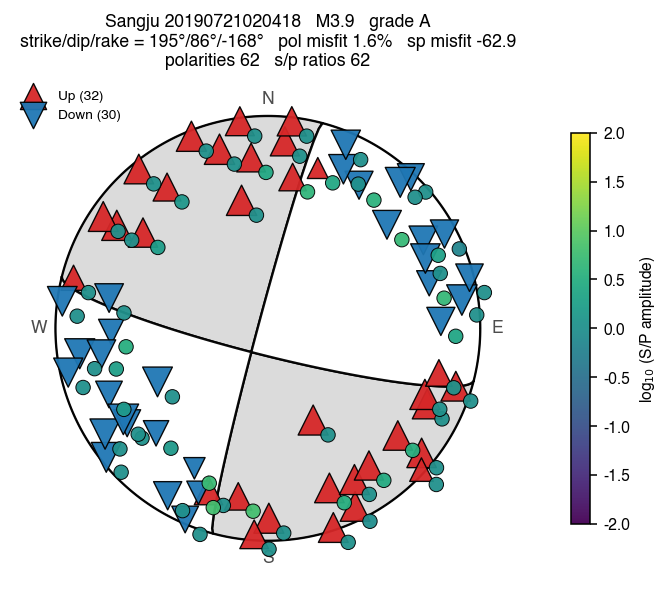
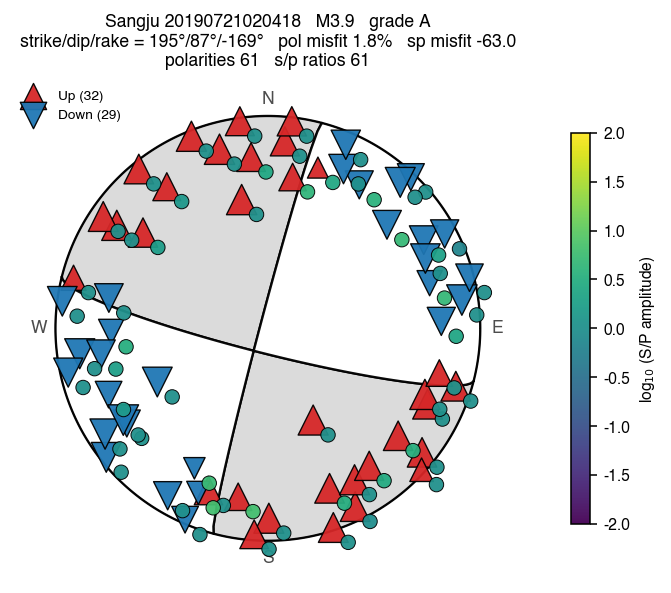
v1.1.2: fault-frame uses mainshock NP1 + STP station-table dedup + plot_3c fix
Three follow-ups from inspecting v1.1.1 sangju.

- viz.fault_sections + viz.plot_3d_plane: new frame_from kwarg (default 'auto'),
  chooses the mainshock's NP1 nodal plane through the mainshock hypocenter when a
  high-confidence focal mechanism is available, instead of the SVD best-fit plane.
  SVD strike is unstable on tight swarms (~50 m clouds); the mechanism plane is the
  geologically right reference. For NP2, pass explicit strike/dip kwargs.

- stp_bridge.fetch_stp_station_table now dedupes by (Network, Code). STP's `sta`
  command lists each station twice — once with elevation in metres and once in km
  (unit bug in STP's output). Without dedup, 113 codes were duplicated in the sangju
  station table, breaking per-station Sensor lookups in viz.plot_3c (got a Series,
  not a scalar) -- the notebook's sample-event 3c plot rendered as three empty axes.

- viz.plot_3c scalar-coerces the Sensor lookup defensively.

Sangju re-run end-to-end (default + Gwangyang treatment), both notebooks clean.

diff --git a/pocketquake/stp_bridge.py b/pocketquake/stp_bridge.py
@@ -102,10 +102,21 @@ def _parse_sta_output(stdout: str, networks: tuple[str, ...]) -> dict:
         except (ValueError, IndexError):
             continue
         rows.append((net, code, lat, lon, elev))
+    # STP lists each station twice -- once with elevation in metres (e.g. ADO2 = 320) and once
+    # in kilometres (ADO2 = 0.324, a unit bug in STP's own output, not two separate sensors).
+    # Dedup by (Network, Code) keeping the larger Elevation -- the metres-valued row, which is
+    # the correct unit for the eq-cycle station-table format. Without this dedup
+    # used_stations_100km.csv has duplicate codes and per-station Sensor lookups in
+    # viz.plot_3c return a Series instead of a scalar, breaking the SAC-file glob.
     out = {}
     for net in networks:
         sub = [r for r in rows if r[0] == net]
-        out[net] = pd.DataFrame(sub, columns=["Network", "Code", "Latitude", "Longitude", "Elevation"])
+        df = pd.DataFrame(sub, columns=["Network", "Code", "Latitude", "Longitude", "Elevation"])
+        # Keep the surface installation per code (highest elevation)
+        df = (df.sort_values("Elevation", ascending=False)
+                .drop_duplicates(subset=("Network", "Code"), keep="first")
+                .reset_index(drop=True))
+        out[net] = df
     return out
 
 

diff --git a/pocketquake/__init__.py b/pocketquake/__init__.py
@@ -16,7 +16,7 @@ Workflow (see `pocketquake.orchestrate.orchestrate`):
         → build & execute `03_results_<cluster>.ipynb`
 """
 
-__version__ = "1.1.1"            # single source of truth — pyproject.toml reads this via setuptools dynamic
+__version__ = "1.1.2"            # single source of truth — pyproject.toml reads this via setuptools dynamic
 
 import os
 

diff --git a/CHANGELOG.md b/CHANGELOG.md
@@ -3,6 +3,47 @@
 Versioning follows [Semantic Versioning](https://semver.org/) (`MAJOR.MINOR.PATCH`).
 The single source of truth is `pocketquake.__version__`; `pyproject.toml` reads it via setuptools dynamic.
 
+## 1.1.2 — 2026-05-31
+
+Three follow-ups from inspecting the v1.1.1 Sangju notebook.
+
+**Added**
+- `viz.fault_sections(..., frame_from=...)` + `viz.plot_3d_plane(..., frame_from=...)` — the
+  fault-frame 2×2 figure and the 3-D plotly view now default to the **mainshock's NP1**
+  (the SKHASH-reported nodal plane) as the fault plane, anchored at the mainshock
+  hypocenter, instead of the SVD best-fit plane of the relocated cloud. SVD is unstable
+  on tight swarms (its strike is dominated by noise when the cloud is ~50 m across);
+  for clusters with a clear mainshock, the focal-mechanism plane is the right geometric
+  reference. `frame_from` options: `"auto"` (default — mechanism plane when a
+  high-confidence FM is available, SVD otherwise), `"svd"` (always SVD — v1.1.1 behavior),
+  `"mechanism"` (force mechanism plane; raises if no FM or the mainshock isn't in the reloc).
+  Explicit `strike=` / `dip=` kwargs still win when provided (use them to plot NP2 instead).
+
+**Fixed**
+- `pocketquake/stp_bridge.py:fetch_stp_station_table` deduplicates by `(Network, Code)`,
+  keeping the higher-elevation row. STP's `sta` command lists each station twice — once
+  with elevation in metres (e.g. `KS,ADO2,...,320`) and once in km
+  (`KS,ADO2,...,0.324`, a unit bug in STP's own output, not two separate sensors). Without
+  the dedup, `used_stations_100km.csv` got duplicate codes (113 in the Sangju run), which
+  broke per-station Sensor lookups in `viz.plot_3c` (returned a Series instead of a
+  scalar, so the SAC-file glob expanded with `"Code\nADO2  EL\n..."` and matched nothing —
+  the Sangju notebook's sample-event panel rendered three empty axes labelled "(none)").
+- `viz.plot_3c` now scalar-coerces the `Sensor` lookup defensively so any future
+  duplicate-row station table can't recreate the empty-axes failure.
+
+**Verified — Sangju re-run end-to-end**
+- Default pipeline (deduped station table): 6 events located, 502 picks (vs 703 with
+  duplicated stations — the duplicated stations contributed false-positive picks). dt.cc
+  tightens the 2019 swarm (event 200000 dropped by HypoDD clustering, same as v1.1.1).
+- Focal mechanisms: M3.9 grade A (strike 194.8°, dip 86.6°, rake -169.3°), plus 3 more
+  grade-A in the 2019/2022 set.
+- Default notebook 31 cells / 0 errors; sample-event 3-c plot now renders real waveforms.
+- Gwangyang-style mainshock treatment re-applied via the v1.1.1 `--mainshock-only` path:
+  the 2019 swarm shifts ~30 m south, ~500 m west, depth-shifts ~30 m shallower relative
+  to the untreated v1.1.2 baseline. `_main` notebook 32 cells / 0 errors.
+- Fault-frame and 3-D plots now show the M3.9 NP1 (strike 195°, dip 87°, N–S right-lateral)
+  passing through the mainshock hypocenter — geologically the actual fault.
+
 ## 1.1.1 — 2026-05-31
 
 Surgical follow-up to v1.1.0. Adds `pocketquake.sh --mainshock-only` and applies the
